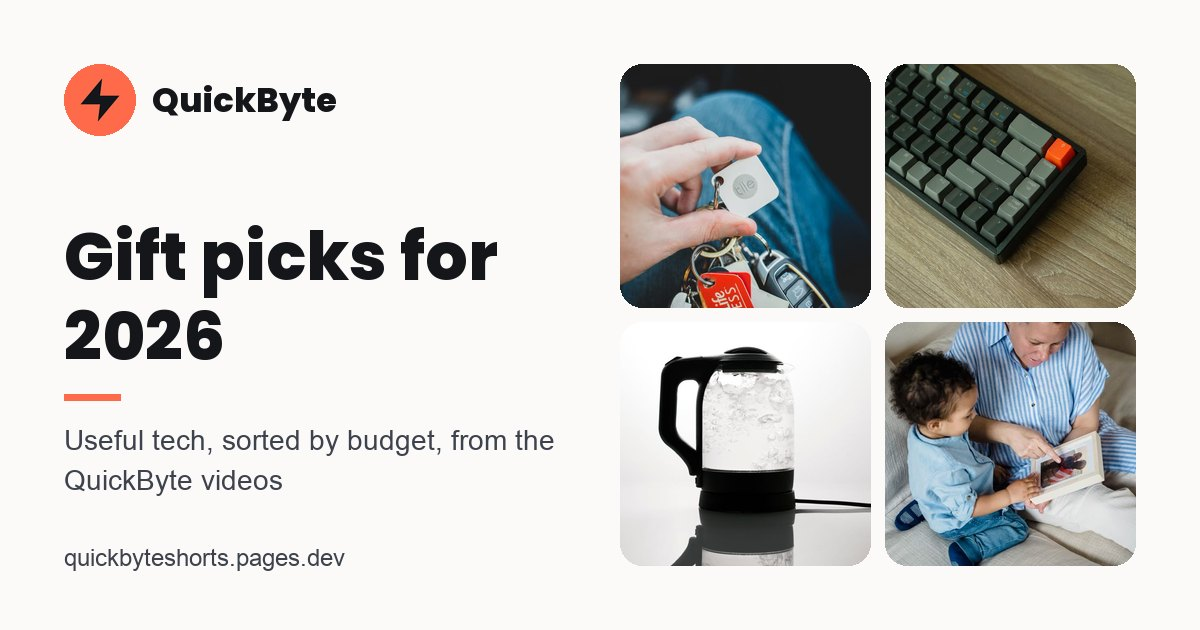
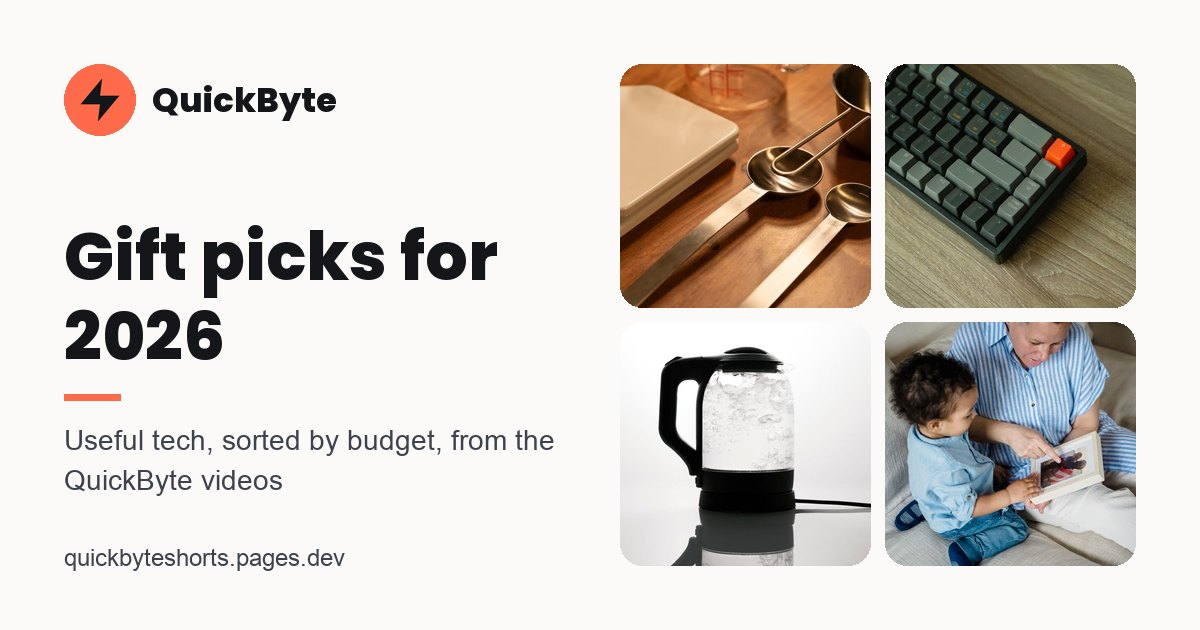
Automated cycle: update landing page

Changed region(s): [[0.4933, 0.0905, 0.74, 0.5127]]

diff --git a/docs/index.html b/docs/index.html
@@ -89,7 +89,7 @@ footer{color:var(--muted);font-size:.82rem;text-align:center;padding:24px 20px 3
 footer a{color:inherit}
 @media (max-width:520px){.season{font-size:1.45rem}.wrap{padding-top:26px}.feature .name{font-size:1.15rem}}
 </style>
-<script type="application/ld+json">{"@context": "https://schema.org", "@graph": [{"@type": "WebSite", "@id": "https://quickbyteshorts.pages.dev/#website", "name": "QuickByte", "url": "https://quickbyteshorts.pages.dev/", "description": "Short videos on which tech is worth buying, and which isn't"}, {"@type": "ItemList", "name": "Gift picks for 2026", "numberOfItems": 28, "itemListElement": [{"@type": "ListItem", "position": 1, "name": "ThermoPro TP19H instant-read thermometer", "url": "https://quickbyteshorts.pages.dev/#pick-thermopro-tp19h"}, {"@type": "ListItem", "position": 2, "name": "Tile Mate tracker", "url": "https://quickbyteshorts.pages.dev/#pick-tile-mate"}, {"@type": "ListItem", "position": 3, "name": "Anker Nano 30W USB-C charger", "url": "https://quickbyteshorts.pages.dev/#pick-anker-nano-charger"}, {"@type": "ListItem", "position": 4, "name": "UGREEN 240W USB-C cable (USB4)", "url": "https://quickbyteshorts.pages.dev/#pick-ugreen-usb4-cable"}, {"@type": "ListItem", "position": 5, "name": "Redragon K552 mechanical keyboard", "url": "https://quickbyteshorts.pages.dev/#pick-redragon-k552-keyboard"}, {"@type": "ListItem", "position": 6, "name": "Echo Pop or Nest Mini", "url": "https://quickbyteshorts.pages.dev/#pick-smart-speaker"}, {"@type": "ListItem", "position": 7, "name": "4K streaming stick", "url": "https://quickbyteshorts.pages.dev/#pick-streaming-stick"}, {"@type": "ListItem", "position": 8, "name": "Belkin Qi2 magnetic charger", "url": "https://quickbyteshorts.pages.dev/#pick-belkin-qi2-charger"}, {"@type": "ListItem", "position": 9, "name": "Anker Nano power bank (10,000mAh)", "url": "https://quickbyteshorts.pages.dev/#pick-anker-nano-power-bank"}, {"@type": "ListItem", "position": 10, "name": "Variable-temperature gooseneck kettle", "url": "https://quickbyteshorts.pages.dev/#pick-gooseneck-kettle"}, {"@type": "ListItem", "position": 11, "name": "Cosori Pro LE 5-quart air fryer", "url": "https://quickbyteshorts.pages.dev/#pick-cosori-air-fryer-5qt"}, {"@type": "ListItem", "position": 12, "name": "Kodak Step mini photo printer", "url": "https://quickbyteshorts.pages.dev/#pick-kodak-step-printer"}, {"@type": "ListItem", "position": 13, "name": "Soundcore Liberty 4 NC earbuds", "url": "https://quickbyteshorts.pages.dev/#pick-soundcore-liberty-4-nc"}, {"@type": "ListItem", "position": 14, "name": "Wi-Fi photo frame", "url": "https://quickbyteshorts.pages.dev/#pick-wifi-photo-frame"}, {"@type": "ListItem", "position": 15, "name": "Baratza Encore burr grinder", "url": "https://quickbyteshorts.pages.dev/#pick-baratza-encore"}, {"@type": "ListItem", "position": 16, "name": "Kindle Paperwhite", "url": "https://quickbyteshorts.pages.dev/#pick-kindle-paperwhite"}, {"@type": "ListItem", "position": 17, "name": "Digital kitchen scale", "url": "https://quickbyteshorts.pages.dev/#pick-kitchen-scale"}, {"@type": "ListItem", "position": 18, "name": "MagicFiber microfiber cloths (6-pack)", "url": "https://quickbyteshorts.pages.dev/#pick-magicfiber-cloths"}, {"@type": "ListItem", "position": 19, "name": "5-speed hand mixer", "url": "https://quickbyteshorts.pages.dev/#pick-hand-mixer"}, {"@type": "ListItem", "position": 20, "name": "65W two-port USB-C charger", "url": "https://quickbyteshorts.pages.dev/#pick-usb-c-65w-charger"}, {"@type": "ListItem", "position": 21, "name": "IP67 clip-on Bluetooth speaker", "url": "https://quickbyteshorts.pages.dev/#pick-ip67-bluetooth-speaker"}, {"@type": "ListItem", "position": 22, "name": "Qi2 3-in-1 stand with Apple Watch charger", "url": "https://quickbyteshorts.pages.dev/#pick-qi2-3-in-1-stand"}, {"@type": "ListItem", "position": 23, "name": "1080p mini projector with Google TV", "url": "https://quickbyteshorts.pages.dev/#pick-mini-projector-google-tv"}, {"@type": "ListItem", "position": 24, "name": "Dual-basket air fryer (8 qt)", "url": "https://quickbyteshorts.pages.dev/#pick-dual-basket-air-fryer"}, {"@type": "ListItem", "position": 25, "name": "Samsung 870 EVO SSD (500GB)", "url": "https://quickbyteshorts.pages.dev/#pick-samsung-870-evo-ssd"}, {"@type": "ListItem", "position": 26, "name": "Leave-in probe meat thermometer", "url": "https://quickbyteshorts.pages.dev/#pick-leave-in-meat-thermometer"}, {"@type": "ListItem", "position": 27, "name": "27-inch 1440p monitor", "url": "https://quickbyteshorts.pages.dev/#pick-monitor-27-1440p"}, {"@type": "ListItem", "position": 28, "name": "Robot vacuum with lidar", "url": "https://quickbyteshorts.pages.dev/#pick-lidar-robot-vacuum"}]}]}</script>
+<script type="application/ld+json">{"@context": "https://schema.org", "@graph": [{"@type": "WebSite", "@id": "https://quickbyteshorts.pages.dev/#website", "name": "QuickByte", "url": "https://quickbyteshorts.pages.dev/", "description": "Short videos on which tech is worth buying, and which isn't"}, {"@type": "ItemList", "name": "Gift picks for 2026", "numberOfItems": 28, "itemListElement": [{"@type": "ListItem", "position": 1, "name": "Digital kitchen scale", "url": "https://quickbyteshorts.pages.dev/#pick-kitchen-scale"}, {"@type": "ListItem", "position": 2, "name": "ThermoPro TP19H instant-read thermometer", "url": "https://quickbyteshorts.pages.dev/#pick-thermopro-tp19h"}, {"@type": "ListItem", "position": 3, "name": "Tile Mate tracker", "url": "https://quickbyteshorts.pages.dev/#pick-tile-mate"}, {"@type": "ListItem", "position": 4, "name": "Anker Nano 30W USB-C charger", "url": "https://quickbyteshorts.pages.dev/#pick-anker-nano-charger"}, {"@type": "ListItem", "position": 5, "name": "UGREEN 240W USB-C cable (USB4)", "url": "https://quickbyteshorts.pages.dev/#pick-ugreen-usb4-cable"}, {"@type": "ListItem", "position": 6, "name": "Redragon K552 mechanical keyboard", "url": "https://quickbyteshorts.pages.dev/#pick-redragon-k552-keyboard"}, {"@type": "ListItem", "position": 7, "name": "Echo Pop or Nest Mini", "url": "https://quickbyteshorts.pages.dev/#pick-smart-speaker"}, {"@type": "ListItem", "position": 8, "name": "4K streaming stick", "url": "https://quickbyteshorts.pages.dev/#pick-streaming-stick"}, {"@type": "ListItem", "position": 9, "name": "Belkin Qi2 magnetic charger", "url": "https://quickbyteshorts.pages.dev/#pick-belkin-qi2-charger"}, {"@type": "ListItem", "position": 10, "name": "Anker Nano power bank (10,000mAh)", "url": "https://quickbyteshorts.pages.dev/#pick-anker-nano-power-bank"}, {"@type": "ListItem", "position": 11, "name": "Variable-temperature gooseneck kettle", "url": "https://quickbyteshorts.pages.dev/#pick-gooseneck-kettle"}, {"@type": "ListItem", "position": 12, "name": "Cosori Pro LE 5-quart air fryer", "url": "https://quickbyteshorts.pages.dev/#pick-cosori-air-fryer-5qt"}, {"@type": "ListItem", "position": 13, "name": "Kodak Step mini photo printer", "url": "https://quickbyteshorts.pages.dev/#pick-kodak-step-printer"}, {"@type": "ListItem", "position": 14, "name": "Soundcore Liberty 4 NC earbuds", "url": "https://quickbyteshorts.pages.dev/#pick-soundcore-liberty-4-nc"}, {"@type": "ListItem", "position": 15, "name": "Wi-Fi photo frame", "url": "https://quickbyteshorts.pages.dev/#pick-wifi-photo-frame"}, {"@type": "ListItem", "position": 16, "name": "Baratza Encore burr grinder", "url": "https://quickbyteshorts.pages.dev/#pick-baratza-encore"}, {"@type": "ListItem", "position": 17, "name": "Kindle Paperwhite", "url": "https://quickbyteshorts.pages.dev/#pick-kindle-paperwhite"}, {"@type": "ListItem", "position": 18, "name": "MagicFiber microfiber cloths (6-pack)", "url": "https://quickbyteshorts.pages.dev/#pick-magicfiber-cloths"}, {"@type": "ListItem", "position": 19, "name": "5-speed hand mixer", "url": "https://quickbyteshorts.pages.dev/#pick-hand-mixer"}, {"@type": "ListItem", "position": 20, "name": "65W two-port USB-C charger", "url": "https://quickbyteshorts.pages.dev/#pick-usb-c-65w-charger"}, {"@type": "ListItem", "position": 21, "name": "IP67 clip-on Bluetooth speaker", "url": "https://quickbyteshorts.pages.dev/#pick-ip67-bluetooth-speaker"}, {"@type": "ListItem", "position": 22, "name": "Qi2 3-in-1 stand with Apple Watch charger", "url": "https://quickbyteshorts.pages.dev/#pick-qi2-3-in-1-stand"}, {"@type": "ListItem", "position": 23, "name": "1080p mini projector with Google TV", "url": "https://quickbyteshorts.pages.dev/#pick-mini-projector-google-tv"}, {"@type": "ListItem", "position": 24, "name": "Dual-basket air fryer (8 qt)", "url": "https://quickbyteshorts.pages.dev/#pick-dual-basket-air-fryer"}, {"@type": "ListItem", "position": 25, "name": "Samsung 870 EVO SSD (500GB)", "url": "https://quickbyteshorts.pages.dev/#pick-samsung-870-evo-ssd"}, {"@type": "ListItem", "position": 26, "name": "Leave-in probe meat thermometer", "url": "https://quickbyteshorts.pages.dev/#pick-leave-in-meat-thermometer"}, {"@type": "ListItem", "position": 27, "name": "27-inch 1440p monitor", "url": "https://quickbyteshorts.pages.dev/#pick-monitor-27-1440p"}, {"@type": "ListItem", "position": 28, "name": "Robot vacuum with lidar", "url": "https://quickbyteshorts.pages.dev/#pick-lidar-robot-vacuum"}]}]}</script>
 </head>
 <body>
 <div class="wrap">
@@ -98,19 +98,23 @@ footer a{color:inherit}
 <nav class="socials" aria-label="QuickByte on social media"><a href="https://www.youtube.com/@quickbytetips" target="_blank" rel="noopener me">YouTube</a><a href="https://www.tiktok.com/@quickbytetips" target="_blank" rel="noopener me">TikTok</a><a href="https://www.instagram.com/quickbytetips" target="_blank" rel="noopener me">Instagram</a></nav>
 <p class="disc">The Amazon links on this page are affiliate links. As an Amazon Associate I earn from qualifying purchases.</p>
 <main>
-<section class="latest" aria-labelledby="latest-h"><h2 id="latest-h">From today's video</h2><article class="feature"><div class="ph"><picture><source type="image/webp" srcset="img/variable-temperature-electric-kettle-480.webp 480w, img/variable-temperature-electric-kettle-800.webp 800w" sizes="(max-width:700px) calc(100vw - 40px), 500px"><img src="img/variable-temperature-electric-kettle.jpg" alt="" width="800" height="600" fetchpriority="high" decoding="async"></picture></div><div class="body">
+<section class="latest" aria-labelledby="latest-h"><h2 id="latest-h">From today's video</h2><article class="feature"><div class="ph"><picture><source type="image/webp" srcset="img/digital-kitchen-scale-480.webp 480w, img/digital-kitchen-scale-800.webp 800w" sizes="(max-width:700px) calc(100vw - 40px), 500px"><img src="img/digital-kitchen-scale.jpg" alt="" width="800" height="600" fetchpriority="high" decoding="async"></picture></div><div class="body">
+<h3 class="name">Digital kitchen scale</h3>
+<p class="seen">From the video: $15 kitchen scale vs measuring cups: why the same cookies come out different</p><p class="note">Weighing flour instead of scooping it is the easiest way to make a recipe come out the same every time.</p>
+<div class="row"><a class="buy" href="https://www.amazon.com/s?k=digital+kitchen+scale+grams&amp;tag=quickbyte0f-20" target="_blank" rel="sponsored nofollow noopener">See it on Amazon</a><span class="paid">Paid link</span></div>
+</div></article><h2>Also from recent videos</h2><div class="grid wide"><article class="pick compact"><div class="ph"><picture><source type="image/webp" srcset="img/variable-temperature-electric-kettle-480.webp 480w, img/variable-temperature-electric-kettle-800.webp 800w" sizes="160px"><img src="img/variable-temperature-electric-kettle.jpg" alt="" width="800" height="600" loading="lazy" decoding="async"></picture></div><div class="body">
 <h3 class="name">Variable-temperature gooseneck kettle</h3>
-<p class="seen">From the video: Electric kettle gift: skip the $90 one unless they drink tea</p><p class="note">Worth it for tea and pour-over people, since green tea wants water well under boiling. Everyone else is fine with a basic kettle.</p>
-<div class="row"><a class="buy" href="https://www.amazon.com/s?k=variable+temperature+gooseneck+electric+kettle&amp;tag=quickbyte0f-20" target="_blank" rel="sponsored nofollow noopener">See it on Amazon</a><span class="paid">Paid link</span></div>
-</div></article><h2>Also from recent videos</h2><div class="grid wide"><article class="pick compact"><div class="ph"><picture><source type="image/webp" srcset="img/wifi-digital-photo-frame-480.webp 480w, img/wifi-digital-photo-frame-800.webp 800w" sizes="160px"><img src="img/wifi-digital-photo-frame.jpg" alt="" width="800" height="600" loading="lazy" decoding="async"></picture></div><div class="body">
+<p class="seen">From: Electric kettle gift: skip the $90 one unless they drink tea</p><p class="note">Worth it for tea and pour-over people, since green tea wants water well under boiling. Everyone else is fine with a basic kettle.</p>
+<div class="row"><a class="buy" href="https://www.amazon.com/s?k=variable+temperature+gooseneck+electric+kettle&amp;tag=quickbyte0f-20" target="_blank" rel="sponsored nofollow noopener">See it on Amazon</a><span class="paid">Paid link</span><a class="watch" href="https://www.youtube.com/shorts/cXiSVvgaVZo" target="_blank" rel="noopener">Watch the video</a></div>
+</div></article><article class="pick compact"><div class="ph"><picture><source type="image/webp" srcset="img/wifi-digital-photo-frame-480.webp 480w, img/wifi-digital-photo-frame-800.webp 800w" sizes="160px"><img src="img/wifi-digital-photo-frame.jpg" alt="" width="800" height="600" loading="lazy" decoding="async"></picture></div><div class="body">
 <h3 class="name">Wi-Fi photo frame</h3>
 <p class="seen">From: The tech gift grandparents actually use every day</p><p class="note">The family sends photos from their phones and they just appear. Pick one that doesn&#x27;t require a subscription.</p>
 <div class="row"><a class="buy" href="https://www.amazon.com/s?k=WiFi+digital+photo+frame&amp;tag=quickbyte0f-20" target="_blank" rel="sponsored nofollow noopener">See it on Amazon</a><span class="paid">Paid link</span><a class="watch" href="https://www.youtube.com/shorts/HVvog3n8l-w" target="_blank" rel="noopener">Watch the video</a></div>
-</div></article><article class="pick compact"><div class="ph"><picture><source type="image/webp" srcset="img/5-quart-basket-air-fryer-480.webp 480w, img/5-quart-basket-air-fryer-800.webp 800w" sizes="160px"><img src="img/5-quart-basket-air-fryer.jpg" alt="" width="800" height="600" loading="lazy" decoding="async"></picture></div><div class="body">
-<h3 class="name">Cosori Pro LE 5-quart air fryer</h3>
-<p class="seen">From: Before you buy an air fryer, check the quarts, not the presets</p><p class="note">Five quarts is enough to cook a single layer of fries or wings for a family of four.</p>
-<div class="row"><a class="buy" href="https://www.amazon.com/dp/B0936FGLQS?tag=quickbyte0f-20" target="_blank" rel="sponsored nofollow noopener">See it on Amazon</a><span class="paid">Paid link</span><a class="watch" href="https://www.youtube.com/shorts/TIhSWZFW5S8" target="_blank" rel="noopener">Watch the video</a></div>
-</div></article></div></section><h1 class="season" id="gifts">Gift picks for 2026</h1><p class="season-sub">Each pick comes from a QuickByte video (a few of those videos are still on the way). Useful things, sensibly priced, that we'd tell a friend to buy. Sorted by budget.</p><nav class="jump" aria-label="Budgets"><a href="#under-25">Under $25</a><a href="#under-50">Under $50</a><a href="#under-100">Under $100</a><a href="#worth-the-splurge">Worth the splurge</a></nav><h2 id="under-25">Under $25</h2><div class="grid"><article class="pick" id="pick-thermopro-tp19h"><div class="body">
+</div></article></div></section><h1 class="season" id="gifts">Gift picks for 2026</h1><p class="season-sub">Each pick comes from a QuickByte video (a few of those videos are still on the way). Useful things, sensibly priced, that we'd tell a friend to buy. Sorted by budget.</p><nav class="jump" aria-label="Budgets"><a href="#under-25">Under $25</a><a href="#under-50">Under $50</a><a href="#under-100">Under $100</a><a href="#worth-the-splurge">Worth the splurge</a></nav><h2 id="under-25">Under $25</h2><div class="grid"><article class="pick" id="pick-kitchen-scale"><div class="ph"><picture><source type="image/webp" srcset="img/digital-kitchen-scale-480.webp 480w, img/digital-kitchen-scale-800.webp 800w" sizes="(max-width:640px) calc(100vw - 40px), 320px"><img src="img/digital-kitchen-scale.jpg" alt="" width="800" height="600" loading="lazy" decoding="async"></picture></div><div class="body">
+<h3 class="name">Digital kitchen scale</h3>
+<p class="note">Weighing flour instead of scooping it is the easiest way to make a recipe come out the same every time.</p>
+<div class="row"><a class="buy" href="https://www.amazon.com/s?k=digital+kitchen+scale+grams&amp;tag=quickbyte0f-20" target="_blank" rel="sponsored nofollow noopener">See it on Amazon</a><span class="paid">Paid link</span></div>
+</div></article><article class="pick" id="pick-thermopro-tp19h"><div class="body">
 <h3 class="name">ThermoPro TP19H instant-read thermometer</h3>
 <p class="note">Reads in a few seconds and has a backlit screen, so you stop guessing whether the chicken is done.</p>
 <div class="row"><a class="buy" href="https://www.amazon.com/dp/B07XXSYLL8?tag=quickbyte0f-20" target="_blank" rel="sponsored nofollow noopener">See it on Amazon</a><span class="paid">Paid link</span><a class="watch" href="https://www.youtube.com/shorts/eQn6qHeMhOY" target="_blank" rel="noopener">Watch the video</a></div>
@@ -126,10 +130,6 @@ footer a{color:inherit}
 <h3 class="name">UGREEN 240W USB-C cable (USB4)</h3>
 <p class="note">One cable that handles full-speed data, 4K video and laptop charging, so nobody has to guess which cable is which.</p>
 <div class="row"><a class="buy" href="https://www.amazon.com/dp/B0HHF28F1R?tag=quickbyte0f-20" target="_blank" rel="sponsored nofollow noopener">See it on Amazon</a><span class="paid">Paid link</span><a class="watch" href="https://www.youtube.com/shorts/p5rjeAwEhS0" target="_blank" rel="noopener">Watch the video</a></div>
-</div></article><article class="pick" id="pick-kitchen-scale"><div class="ph"><picture><source type="image/webp" srcset="img/digital-kitchen-scale-480.webp 480w, img/digital-kitchen-scale-800.webp 800w" sizes="(max-width:640px) calc(100vw - 40px), 320px"><img src="img/digital-kitchen-scale.jpg" alt="" width="800" height="600" loading="lazy" decoding="async"></picture></div><div class="body">
-<h3 class="name">Digital kitchen scale</h3>
-<p class="note">Weighing flour instead of scooping it is the easiest way to make a recipe come out the same every time.</p>
-<div class="row"><a class="buy" href="https://www.amazon.com/s?k=digital+kitchen+scale+grams&amp;tag=quickbyte0f-20" target="_blank" rel="sponsored nofollow noopener">See it on Amazon</a><span class="paid">Paid link</span></div>
 </div></article><article class="pick" id="pick-magicfiber-cloths"><div class="ph"><picture><source type="image/webp" srcset="img/microfiber-cleaning-cloths-for-screens-480.webp 480w, img/microfiber-cleaning-cloths-for-screens-800.webp 800w" sizes="(max-width:640px) calc(100vw - 40px), 320px"><img src="img/microfiber-cleaning-cloths-for-screens.jpg" alt="" width="800" height="600" loading="lazy" decoding="async"></picture></div><div class="body">
 <h3 class="name">MagicFiber microfiber cloths (6-pack)</h3>
 <p class="note">The only thing that should touch a screen. Cheap, washable, and a solid stocking stuffer.</p>
@@ -165,7 +165,7 @@ footer a{color:inherit}
 </div></article></div><h2 id="under-100">Under $100</h2><div class="grid"><article class="pick" id="pick-gooseneck-kettle"><div class="ph"><picture><source type="image/webp" srcset="img/variable-temperature-electric-kettle-480.webp 480w, img/variable-temperature-electric-kettle-800.webp 800w" sizes="(max-width:640px) calc(100vw - 40px), 320px"><img src="img/variable-temperature-electric-kettle.jpg" alt="" width="800" height="600" loading="lazy" decoding="async"></picture></div><div class="body">
 <h3 class="name">Variable-temperature gooseneck kettle</h3>
 <p class="note">Worth it for tea and pour-over people, since green tea wants water well under boiling. Everyone else is fine with a basic kettle.</p>
-<div class="row"><a class="buy" href="https://www.amazon.com/s?k=variable+temperature+gooseneck+electric+kettle&amp;tag=quickbyte0f-20" target="_blank" rel="sponsored nofollow noopener">See it on Amazon</a><span class="paid">Paid link</span></div>
+<div class="row"><a class="buy" href="https://www.amazon.com/s?k=variable+temperature+gooseneck+electric+kettle&amp;tag=quickbyte0f-20" target="_blank" rel="sponsored nofollow noopener">See it on Amazon</a><span class="paid">Paid link</span><a class="watch" href="https://www.youtube.com/shorts/cXiSVvgaVZo" target="_blank" rel="noopener">Watch the video</a></div>
 </div></article><article class="pick" id="pick-cosori-air-fryer-5qt"><div class="ph"><picture><source type="image/webp" srcset="img/5-quart-basket-air-fryer-480.webp 480w, img/5-quart-basket-air-fryer-800.webp 800w" sizes="(max-width:640px) calc(100vw - 40px), 320px"><img src="img/5-quart-basket-air-fryer.jpg" alt="" width="800" height="600" loading="lazy" decoding="async"></picture></div><div class="body">
 <h3 class="name">Cosori Pro LE 5-quart air fryer</h3>
 <p class="note">Five quarts is enough to cook a single layer of fries or wings for a family of four.</p>
@@ -222,7 +222,7 @@ footer a{color:inherit}
 <h3 class="name">Robot vacuum with lidar</h3>
 <p class="note">The spinning lidar turret maps your rooms, so it cleans in rows instead of bumping around and missing spots.</p>
 <div class="row"><a class="buy" href="https://www.amazon.com/s?k=lidar+robot+vacuum&amp;tag=quickbyte0f-20" target="_blank" rel="sponsored nofollow noopener">See it on Amazon</a><span class="paid">Paid link</span></div>
-</div></article></div><p class="fine">We earn a small commission if you buy through these links, at no extra cost to you, and nobody pays to be on this page. Budget groups are based on typical prices when we chose each pick; Amazon shows the current price. Photos show the kind of product, not always the exact model.</p><h2 id="videos">Latest videos</h2><ul class="vids"><li><a href="https://www.youtube.com/shorts/_B9pHnC_xZU" target="_blank" rel="noopener"><span>Don&#x27;t replace your phone until you check its battery health</span><span>Watch</span></a></li><li><a href="https://www.youtube.com/shorts/HVvog3n8l-w" target="_blank" rel="noopener"><span>The tech gift grandparents actually use every day</span><span>Watch</span></a></li><li><a href="https://www.youtube.com/shorts/fd2R2a-seAA" target="_blank" rel="noopener"><span>Don&#x27;t buy a new router until you try moving this one</span><span>Watch</span></a></li><li><a href="https://www.youtube.com/shorts/TIhSWZFW5S8" target="_blank" rel="noopener"><span>Before you buy an air fryer, check the quarts, not the presets</span><span>Watch</span></a></li><li><a href="https://www.youtube.com/shorts/8ClBSoIFT3Y" target="_blank" rel="noopener"><span>Smart ring vs smartwatch gift: check the monthly fee first</span><span>Watch</span></a></li><li><a href="https://www.youtube.com/shorts/R4IfBrMzpwg" target="_blank" rel="noopener"><span>Text codes vs an authenticator app: which one actually protects you?</span><span>Watch</span></a></li><li><a href="https://www.youtube.com/shorts/ZFj4xFhkAbg" target="_blank" rel="noopener"><span>Gifting a mechanical keyboard? Check the size before the switches</span><span>Watch</span></a></li><li><a href="https://www.youtube.com/shorts/BDD1H5pKqGc" target="_blank" rel="noopener"><span>Blade vs burr coffee grinder: why the $20 one tastes bitter</span><span>Watch</span></a></li><li><a href="https://www.youtube.com/shorts/7wMvowwUTyw" target="_blank" rel="noopener"><span>Echo or Nest? Pick the smart speaker that fits their home</span><span>Watch</span></a></li><li><a href="https://www.youtube.com/shorts/JrS-6aeftQ0" target="_blank" rel="noopener"><span>Don&#x27;t replace your slow old laptop until you check this one part</span><span>Watch</span></a></li><li><a href="https://www.youtube.com/shorts/GoPOhen3Wig" target="_blank" rel="noopener"><span>Before you gift a streaming stick, check their TV</span><span>Watch</span></a></li><li><a href="https://www.youtube.com/shorts/JX483yKjrTw" target="_blank" rel="noopener"><span>Wi-Fi 7 vs Wi-Fi 6: do you actually need the new router?</span><span>Watch</span></a></li></ul>
+</div></article></div><p class="fine">We earn a small commission if you buy through these links, at no extra cost to you, and nobody pays to be on this page. Budget groups are based on typical prices when we chose each pick; Amazon shows the current price. Photos show the kind of product, not always the exact model.</p><h2 id="videos">Latest videos</h2><ul class="vids"><li><a href="https://www.youtube.com/shorts/cXiSVvgaVZo" target="_blank" rel="noopener"><span>Electric kettle gift: skip the $90 one unless they drink tea</span><span>Watch</span></a></li><li><a href="https://www.youtube.com/shorts/_B9pHnC_xZU" target="_blank" rel="noopener"><span>Don&#x27;t replace your phone until you check its battery health</span><span>Watch</span></a></li><li><a href="https://www.youtube.com/shorts/HVvog3n8l-w" target="_blank" rel="noopener"><span>The tech gift grandparents actually use every day</span><span>Watch</span></a></li><li><a href="https://www.youtube.com/shorts/fd2R2a-seAA" target="_blank" rel="noopener"><span>Don&#x27;t buy a new router until you try moving this one</span><span>Watch</span></a></li><li><a href="https://www.youtube.com/shorts/TIhSWZFW5S8" target="_blank" rel="noopener"><span>Before you buy an air fryer, check the quarts, not the presets</span><span>Watch</span></a></li><li><a href="https://www.youtube.com/shorts/8ClBSoIFT3Y" target="_blank" rel="noopener"><span>Smart ring vs smartwatch gift: check the monthly fee first</span><span>Watch</span></a></li><li><a href="https://www.youtube.com/shorts/R4IfBrMzpwg" target="_blank" rel="noopener"><span>Text codes vs an authenticator app: which one actually protects you?</span><span>Watch</span></a></li><li><a href="https://www.youtube.com/shorts/ZFj4xFhkAbg" target="_blank" rel="noopener"><span>Gifting a mechanical keyboard? Check the size before the switches</span><span>Watch</span></a></li><li><a href="https://www.youtube.com/shorts/BDD1H5pKqGc" target="_blank" rel="noopener"><span>Blade vs burr coffee grinder: why the $20 one tastes bitter</span><span>Watch</span></a></li><li><a href="https://www.youtube.com/shorts/7wMvowwUTyw" target="_blank" rel="noopener"><span>Echo or Nest? Pick the smart speaker that fits their home</span><span>Watch</span></a></li><li><a href="https://www.youtube.com/shorts/JrS-6aeftQ0" target="_blank" rel="noopener"><span>Don&#x27;t replace your slow old laptop until you check this one part</span><span>Watch</span></a></li><li><a href="https://www.youtube.com/shorts/GoPOhen3Wig" target="_blank" rel="noopener"><span>Before you gift a streaming stick, check their TV</span><span>Watch</span></a></li></ul>
 </main>
 </div>
 <footer>QuickByte &middot; @quickbytetips<br>As an Amazon Associate I earn from qualifying purchases. Amazon and the Amazon logo are trademarks of
